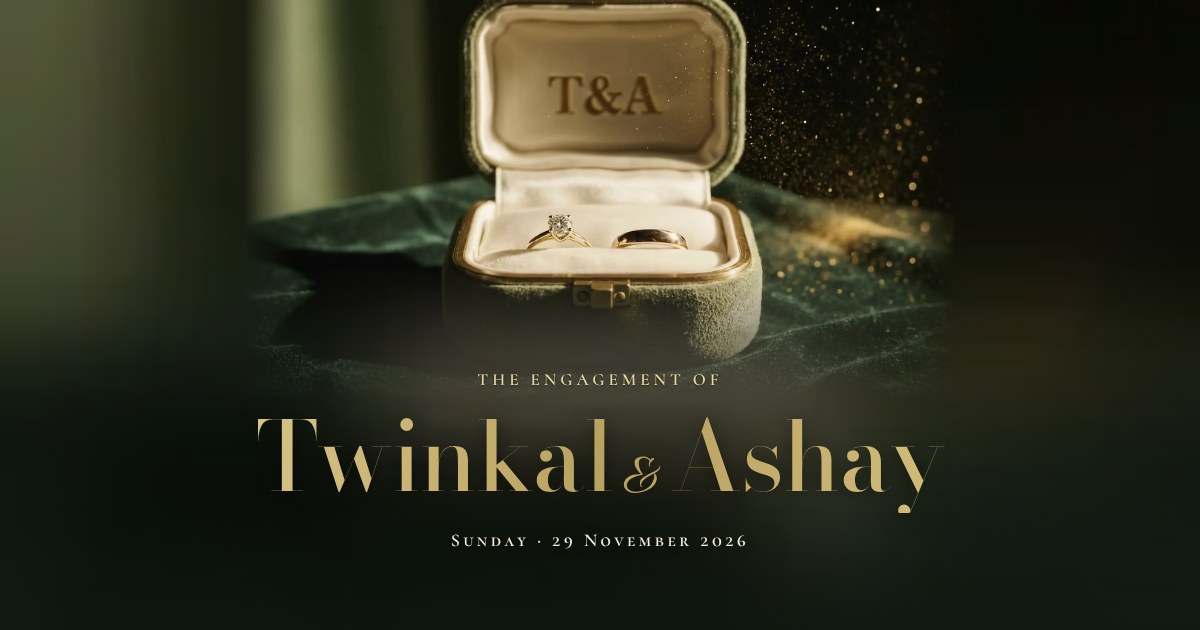
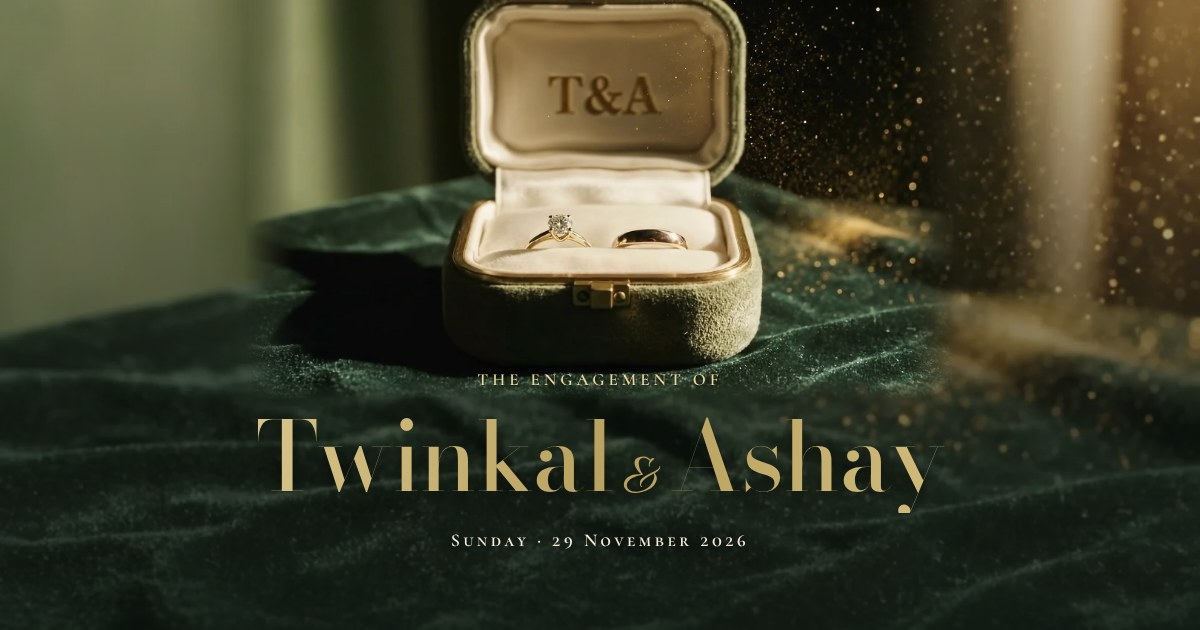
Velvet room backgrounds, never crop the box, drop the blessing shower
The film now sits in the room it was shot in: a matching velvet-and-dust
background plate (wide for laptops, an upscaled tall slice for phones) with
only a whisper of blur. Laptops fill the screen's height so the whole box is
always visible; fades are thin enough to stay clear of the lid and base. The
blessing shower is removed; a diya moment will take its place.

Claude-Session: https://claude.ai/code/session_01V483XrH9DwYK8njAU3piiR

diff --git a/index.html b/index.html
@@ -62,17 +62,14 @@
 
   /* ---------- ring box film ---------- */
   /* The film sits at the top and the words sit below it, so nothing ever covers the rings. Around it the whole
-     screen glows with a soft, dimmed blur of the film itself (its first frame, warming into its last once the
-     film ends), so the film melts into its own velvet and light rather than a flat wall.
+     screen is the same room: the velvet cloth, gold dust and window light the film was shot in (a matching
+     background plate), so the film sits in its own scene rather than on a flat wall.
      Wide screens get the 16:9 cut; phones and portrait tablets get the square cut (see the media query). */
-  .scene { --poster: url(assets/film-wide-poster.webp); --amb-start: url(assets/ambient-wide-start.webp); --amb-end: url(assets/ambient-wide-end.webp);
+  .scene { --poster: url(assets/film-wide-poster.webp); --bg: url(assets/bg-wide.webp);
     --top: 0px; --fh: min(56.25vw, calc(100svh - 230px)); --fw: calc(var(--fh) * 16 / 9);
     position: relative; height: 100svh; min-height: 560px; overflow: hidden; background: #111a12; }
-  .ambient, .ambient::before, .ambient::after { position: absolute; inset: 0; pointer-events: none; }
-  .ambient { background: var(--amb-start) center / cover no-repeat; }
-  /* the glow warms only once the film has finished, so nothing else repaints while it plays */
-  .ambient::before { content: ""; background: var(--amb-end) center / cover no-repeat; opacity: 0; transition: opacity 2.2s ease; will-change: opacity; }
-  .show-final .ambient::before { opacity: 1; }
+  .ambient, .ambient::after { position: absolute; inset: 0; pointer-events: none; }
+  .ambient { background: var(--bg) center bottom / cover no-repeat; }
   /* deepen the lower half so the gold words always read clearly */
   .ambient::after { content: ""; background: linear-gradient(to bottom, rgba(12, 19, 14, .05) 0, rgba(12, 19, 14, .35) calc(var(--top) + var(--fh) * .8), rgba(12, 19, 14, .78) 100%); }
   .scene .film, .scene .final {
@@ -82,20 +79,26 @@
   /* Softens the film's edges into the glow. It is a still layer laid over the film rather than a mask on the
      video, because masking a moving video costs frames; it fades in as the film settles into its frame. */
   .veil { position: absolute; inset: 0; pointer-events: none; opacity: 1; transition: opacity 1.5s ease;
-    background: linear-gradient(to bottom, rgba(12, 19, 14, .05) 0, rgba(12, 19, 14, .35) calc(var(--top) + var(--fh) * .8), rgba(12, 19, 14, .78) 100%), var(--amb-end) center / cover no-repeat;
-    -webkit-mask-image: linear-gradient(to bottom, transparent calc(var(--top) + var(--fh) * .66), #000 calc(var(--top) + var(--fh))),
+    background: linear-gradient(to bottom, rgba(12, 19, 14, .05) 0, rgba(12, 19, 14, .35) calc(var(--top) + var(--fh) * .8), rgba(12, 19, 14, .78) 100%), var(--bg) center bottom / cover no-repeat;
+    -webkit-mask-image: linear-gradient(to bottom, transparent calc(var(--top) + var(--fh) * .945), #000 calc(var(--top) + var(--fh))),
       linear-gradient(to right, #000 calc(50% - var(--fw) / 2), transparent calc(50% - var(--fw) * .43), transparent calc(50% + var(--fw) * .43), #000 calc(50% + var(--fw) / 2));
-            mask-image: linear-gradient(to bottom, transparent calc(var(--top) + var(--fh) * .66), #000 calc(var(--top) + var(--fh))),
+            mask-image: linear-gradient(to bottom, transparent calc(var(--top) + var(--fh) * .945), #000 calc(var(--top) + var(--fh))),
       linear-gradient(to right, #000 calc(50% - var(--fw) / 2), transparent calc(50% - var(--fw) * .43), transparent calc(50% + var(--fw) * .43), #000 calc(50% + var(--fw) / 2)); }
   .scene.full .veil { opacity: 0; }
+  .veil-full { position: absolute; inset: 0; pointer-events: none; opacity: 0; transition: opacity 1.5s ease;
+    background: linear-gradient(rgba(12, 19, 14, .25), rgba(12, 19, 14, .25)), var(--bg) center bottom / cover no-repeat;
+    -webkit-mask-image: linear-gradient(to right, #000 calc(50% - var(--full-w, 100vw) / 2), transparent calc(50% - var(--full-w, 100vw) * .44), transparent calc(50% + var(--full-w, 100vw) * .44), #000 calc(50% + var(--full-w, 100vw) / 2));
+            mask-image: linear-gradient(to right, #000 calc(50% - var(--full-w, 100vw) / 2), transparent calc(50% - var(--full-w, 100vw) * .44), transparent calc(50% + var(--full-w, 100vw) * .44), #000 calc(50% + var(--full-w, 100vw) / 2)); }
+  .scene.full .veil-full { opacity: 1; transition: none; }
   .scene .film { background: var(--poster) center / cover no-repeat; }
-  /* wide screens: the film fills the screen while it plays (scale and offset set by fitFull),
+  /* wide screens: the film fills the screen's height while it plays (scale and offset set by fitFull),
      then glides back into its frame above the names once it ends */
   .scene .final { transition: opacity .8s ease; }
   /* only the settling move animates; the film starts full-screen without any zoom on load */
   .scene.settle .film, .scene.settle .final { transition: transform 1.5s cubic-bezier(.6, 0, .25, 1), opacity .8s ease; }
   .scene.full .film, .scene.full .final { transform: translate(-50%, var(--full-y, 0px)) scale(var(--full-s, 1)); }
   @media (min-aspect-ratio: 801/1000) {
+    .scene .scroll-cue { display: none; }   /* the hint says it; the icon would sit under the RSVP bar */
     .scene.full .scene-ui { top: calc(env(safe-area-inset-top) + 8svh); bottom: auto; text-shadow: 0 1px 12px rgba(0, 0, 0, .6); }
   }
   .scene .final { opacity: 0; pointer-events: none; }
@@ -115,23 +118,21 @@
   .named .post { opacity: 1; transform: none; pointer-events: auto; transition-duration: 1.4s; }
 
   @media (max-aspect-ratio: 4/5) {
-    .scene { --poster: url(assets/film-square-poster.webp); --amb-start: url(assets/ambient-square-start.webp); --amb-end: url(assets/ambient-square-end.webp);
+    .scene { --poster: url(assets/film-square-poster.webp); --bg: url(assets/bg-tall.webp);
       --top: calc(env(safe-area-inset-top) + 40px);
       --fh: min(100vw, 60svh); --fw: var(--fh); }
-    .veil { display: none; }
-    /* the glide to the centre fits inside the pause after the tap */
-    .scene.settle .film, .scene.settle .final { transition: transform 1.1s cubic-bezier(.6, 0, .25, 1), opacity .8s ease; }
+    .veil, .veil-full { display: none; }
     /* phones: the square spans the width, so only its top and bottom melt away */
     .scene .film, .scene .final {
-      -webkit-mask-image: linear-gradient(to bottom, transparent 0, #000 13%, #000 80%, transparent 100%);
-              mask-image: linear-gradient(to bottom, transparent 0, #000 13%, #000 80%, transparent 100%);
+      -webkit-mask-image: linear-gradient(to bottom, transparent 0, #000 3%, #000 95%, transparent 100%);
+              mask-image: linear-gradient(to bottom, transparent 0, #000 3%, #000 95%, transparent 100%);
     }
   }
   /* portrait tablets: the square no longer spans the width, so melt its sides too */
   @media (max-aspect-ratio: 4/5) and (min-aspect-ratio: 3/5) {
     .scene .film, .scene .final {
-      -webkit-mask-image: linear-gradient(to bottom, transparent 0, #000 13%, #000 80%, transparent 100%), linear-gradient(to right, transparent 0, #000 9%, #000 91%, transparent 100%);
-              mask-image: linear-gradient(to bottom, transparent 0, #000 13%, #000 80%, transparent 100%), linear-gradient(to right, transparent 0, #000 9%, #000 91%, transparent 100%);
+      -webkit-mask-image: linear-gradient(to bottom, transparent 0, #000 3%, #000 95%, transparent 100%), linear-gradient(to right, transparent 0, #000 9%, #000 91%, transparent 100%);
+              mask-image: linear-gradient(to bottom, transparent 0, #000 3%, #000 95%, transparent 100%), linear-gradient(to right, transparent 0, #000 9%, #000 91%, transparent 100%);
     }
   }
   .kicker { font-family: var(--caps); font-weight: 600; letter-spacing: 4px; font-size: clamp(14px, 3.9vw, 17px); color: #ecd9a0; margin: 0 0 16px; text-transform: uppercase;
@@ -248,18 +249,6 @@
   .btn-wa { background: linear-gradient(135deg, #34503f, #1b2c23); color: #f3e6c4; box-shadow: 0 10px 24px -10px rgba(20, 40, 30, .75), inset 0 0 0 1px rgba(220, 194, 131, .45); }
   .btn[hidden] { display: none; }
 
-  /* blessings */
-  .bless-btn { position: relative; width: 156px; height: 156px; border-radius: 50%; border: 0; cursor: pointer; margin: 30px auto 0; display: grid; place-items: center;
-    background: radial-gradient(circle at 35% 30%, #fff7e6, #ecd3a0 50%, #c4a062); color: #43361a;
-    box-shadow: 0 20px 40px -18px rgba(140, 105, 40, .65), inset 0 2px 0 rgba(255, 255, 255, .75), inset 0 0 0 1px rgba(140, 110, 50, .35);
-    font-family: var(--caps); font-weight: 600; letter-spacing: 2px; font-size: 14px; -webkit-user-select: none; user-select: none; -webkit-touch-callout: none; touch-action: none; transition: transform .25s; }
-  :lang(gu) .bless-btn { letter-spacing: .3px; font-size: 16px; }
-  .bless-btn.holding { transform: scale(.94); }
-  .bless-btn svg { width: 40px; height: 40px; margin-bottom: 6px; }
-  .bless-btn::before { content: ""; position: absolute; inset: -10px; border-radius: 50%; border: 1px dashed rgba(196, 160, 98, .65); animation: spin 18s linear infinite; }
-  @keyframes spin { to { transform: rotate(360deg); } }
-  .bless-count { margin-top: 18px; font-style: italic; color: var(--ink-soft); min-height: 1.4em; }
-  #petals { position: fixed; inset: 0; width: 100%; height: 100%; pointer-events: none; z-index: 25; }
 
   /* rsvp */
   .rsvp-form { display: grid; gap: 12px; max-width: 420px; margin: 26px auto 0; text-align: left; }
@@ -328,6 +317,7 @@
          aria-label="A velvet ring box opens to show two engagement rings and a gold T &amp; A on the lid"></video>
   <img class="final" alt="">
   <div class="veil" aria-hidden="true"></div>
+  <div class="veil-full" aria-hidden="true"></div>
   <script>
   // phones get the square cut of the film, wider screens the full 16:9 one; chosen before anything else loads
   (() => {
@@ -436,18 +426,7 @@
       </div>
     </section>
 
-    <!-- ================= 6. BLESSINGS ================= -->
-    <section class="block">
-      <p class="eyebrow rv" data-i18n="blessEyebrow">From your heart</p>
-      <h2 class="rv" data-i18n="blessTitle">Shower your blessings</h2>
-      <p class="lead rv" data-i18n="blessText">Press and hold the flower to shower petals on Twinkal &amp; Ashay.</p>
-      <button class="bless-btn rv" id="blessBtn">
-        <span><svg viewBox="0 0 48 48" fill="none" stroke="currentColor" stroke-width="1.6" aria-hidden="true"><path d="M24 40c0-8 0-14 0-20"/><path d="M24 20c-6-1-9-5-9-10 5 0 8 3 9 6 1-3 4-6 9-6 0 5-3 9-9 10z" fill="currentColor" fill-opacity=".18"/><path d="M24 30c-4 0-8-2-9-6 4-1 7 1 9 3M24 32c4 0 8-2 9-6-4-1-7 1-9 3"/></svg><br><span data-i18n="blessBtn">HOLD TO BLESS</span></span>
-      </button>
-      <p class="bless-count" id="blessCount" aria-live="polite"></p>
-    </section>
-
-    <!-- ================= 7. RSVP ================= -->
+    <!-- ================= 6. RSVP ================= -->
     <section class="block" id="rsvp">
       <p class="eyebrow rv" data-i18n="rsvpEyebrow">Kindly reply</p>
       <h2 class="rv" data-i18n="rsvpTitle">Will you join us?</h2>
@@ -479,7 +458,6 @@
   <button class="qb" id="qbLoc"><svg viewBox="0 0 24 24" fill="none" stroke="currentColor" stroke-width="1.7"><path d="M12 21s-7-6.2-7-11.5A7 7 0 0 1 19 9.5C19 14.8 12 21 12 21z"/><circle cx="12" cy="9.5" r="2.5"/></svg><span data-i18n="barLoc">LOCATION</span></button>
 </nav>
 
-<canvas id="petals" aria-hidden="true"></canvas>
 <audio id="music" loop preload="none"></audio>
 
 <!-- ================= page logic (no 3D) ================= -->
@@ -516,9 +494,6 @@ const I18N = {
     detailsEyebrow: "JOIN US", detailsTitle: "The celebration", when: "DATE", time: "TIME", where: "VENUE",
     dateLongPlain: "Sunday, 29 November 2026", tba: "To be shared soon",
     calendar: "ADD TO CALENDAR", directions: "DIRECTIONS",
-    blessEyebrow: "FROM YOUR HEART", blessTitle: "Shower your blessings",
-    blessText: "Press and hold the flower to shower petals on Twinkal & Ashay.", blessBtn: "HOLD TO BLESS",
-    blessCount: "{n} blessings sent with love", blessOne: "1 blessing sent with love",
     rsvpEyebrow: "KINDLY REPLY", rsvpTitle: "Will you join us?", nameLabel: "YOUR NAME", namePh: "Your name",
     guestsLabel: "NUMBER OF GUESTS", yes: "YES, WE'LL BE THERE", no: "SORRY, CAN'T MAKE IT",
     rsvpYes: "Namaste! {name} will joyfully attend Twinkal & Ashay's engagement on Sunday, 29 November 2026. Guests: {n} 🌸",
@@ -544,9 +519,6 @@ const I18N = {
     detailsEyebrow: "પધારજો", detailsTitle: "શુભ પ્રસંગ", when: "તારીખ", time: "સમય", where: "સ્થળ",
     dateLongPlain: "રવિવાર, ૨૯ નવેમ્બર ૨૦૨૬", tba: "ટૂંક સમયમાં જણાવીશું",
     calendar: "કેલેન્ડરમાં ઉમેરો", directions: "રસ્તો જુઓ",
-    blessEyebrow: "દિલથી", blessTitle: "આશીર્વાદ વરસાવો",
-    blessText: "ટ્વિંકલ અને આશય પર ફૂલ વરસાવવા ફૂલ દબાવી રાખો.", blessBtn: "દબાવી રાખો",
-    blessCount: "{n} આશીર્વાદ પ્રેમથી મોકલ્યા", blessOne: "૧ આશીર્વાદ પ્રેમથી મોકલ્યો",
     rsvpEyebrow: "જવાબ આપશો", rsvpTitle: "આપ પધારશો ને?", nameLabel: "આપનું નામ", namePh: "આપનું નામ",
     guestsLabel: "મહેમાનોની સંખ્યા", yes: "હા, જરૂર આવીશું", no: "માફ કરશો, નહીં આવી શકીએ",
     rsvpYes: "નમસ્તે! {name} ટ્વિંકલ અને આશયની સગાઈમાં (રવિવાર, ૨૯ નવેમ્બર ૨૦૨૬) જરૂર આવશે. મહેમાનો: {n} 🌸",
@@ -598,7 +570,6 @@ function applyLang() {
   const bp = document.getElementById("brideParents"), gp = document.getElementById("groomParents");
   if (CONFIG.brideParents) { bp.hidden = false; bp.textContent = t("daughterOf", { x: CONFIG.brideParents }); }
   if (CONFIG.groomParents) { gp.hidden = false; gp.textContent = t("sonOf", { x: CONFIG.groomParents }); }
-  renderBlessCount();
   tick(true);
   document.dispatchEvent(new CustomEvent("langchange", { detail: lang }));
 }
@@ -687,7 +658,7 @@ addEventListener("scroll", () => { if (document.body.classList.contains("locked"
 const html = document.documentElement;
 const film = document.getElementById("film");
 const finalImg = document.querySelector(".scene .final");
-const HOLD = 1200;   // ms of stillness after the tap, before the lid starts to move (covers the phone glide)
+const HOLD = 1000;   // ms of stillness after the tap, before the lid starts to move
 let opened = false, started = false, filmFailed = false;
 film.addEventListener("error", () => { filmFailed = true; });
 [...film.querySelectorAll("source")].pop().addEventListener("error", () => { filmFailed = true; });
@@ -711,14 +682,16 @@ function begin() {
   document.dispatchEvent(new Event("openbox"));
 }
 
-// The film has the screen to itself while it plays: full-screen on wide screens (from the start), centred on
-// phones (glides there on the tap). When it ends it zooms out into its frame and the names rise below it.
+// The film has the screen to itself while it plays: full-screen on wide screens (from the start), across the
+// top on phones. When it ends it zooms out into its frame (wide) and the names rise below it.
 // Every move happens while the film is paused, so none of them costs a frame of playback.
 const sceneEl = document.getElementById("scene");
 const WIDE = film.dataset.cut === "wide", STILL = new URLSearchParams(location.search).has("still");
 function fitFull() {
   const w = film.offsetWidth, h = film.offsetHeight, H = sceneEl.clientHeight;
-  sceneEl.style.setProperty("--full-s", (WIDE ? Math.max(innerWidth / w, H / h) : 1).toFixed(4));
+  const sc = WIDE ? H / h : 1;   // fill the height, never crop it: the box nearly fills the frame at the end
+  sceneEl.style.setProperty("--full-s", sc.toFixed(4));
+  sceneEl.style.setProperty("--full-w", (w * sc).toFixed(1) + "px");
   sceneEl.style.setProperty("--full-y", (H / 2 - film.offsetTop - h / 2).toFixed(1) + "px");
 }
 fitFull(); addEventListener("resize", fitFull);
@@ -736,7 +709,6 @@ function openBox() {
   sceneEl.classList.add("opened");
   setMusic(true);
   if (filmFailed) return fallBack();
-  if (!WIDE) sceneEl.classList.add("settle", "full");     // phones: the box glides to the centre
   // start playback inside the tap (so every phone allows it), hold on the first frame, then let it run
   const go = () => { const q = film.play(); if (q && q.catch) q.catch(fallBack); };
   const p = film.play();
@@ -779,58 +751,6 @@ if (new URLSearchParams(location.search).has("still")) {
 /* ---------- reveal on scroll ---------- */
 const io = new IntersectionObserver(es => es.forEach(e => { if (e.isIntersecting) { e.target.classList.add("in"); io.unobserve(e.target); } }), { threshold: .15 });
 document.querySelectorAll(".rv").forEach(el => io.observe(el));
-
-/* ---------- blessings: hold to shower petals ---------- */
-let blessed = 0;
-try { blessed = +localStorage.getItem("ta-bless") || 0; } catch (e) {}
-function renderBlessCount() {
-  document.getElementById("blessCount").textContent = blessed ? (blessed === 1 ? t("blessOne") : t("blessCount", { n: num(blessed) })) : "";
-}
-(() => {
-  const cv = document.getElementById("petals"), cx = cv.getContext("2d");
-  const COLORS = [["#ffd9a8", "#f39a4d"], ["#ffd0c0", "#ea7d5d"], ["#fff4e2", "#e9c99a"], ["#ffe08a", "#f0a92e"], ["#f9c4cf", "#e0708a"]];
-  const reduce = matchMedia("(prefers-reduced-motion: reduce)").matches;
-  let petals = [], running = false, holding = false, dpr = 1, W = 0, H = 0, holdTimer;
-  function size() { dpr = Math.min(devicePixelRatio || 1, 2); W = innerWidth; H = innerHeight; cv.width = W * dpr; cv.height = H * dpr; cx.setTransform(dpr, 0, 0, dpr, 0, 0); }
-  size(); addEventListener("resize", size);
-  function spawn(n) {
-    for (let i = 0; i < n; i++) {
-      const c = COLORS[(Math.random() * COLORS.length) | 0];
-      petals.push({ x: Math.random() * W, y: -20 - Math.random() * 60, r: 7 + Math.random() * 8, vy: 1.4 + Math.random() * 2.2, vx: (Math.random() - .5) * .8,
-        sw: Math.random() * 6.28, rot: Math.random() * 6.28, vr: (Math.random() - .5) * .08, flip: Math.random() * 6.28, c });
-    }
-    if (petals.length > 260) petals.splice(0, petals.length - 260);
-    if (!running) { running = true; requestAnimationFrame(frame); }
-  }
-  function frame() {
-    cx.clearRect(0, 0, W, H);
-    if (holding) spawn(3);
-    for (const p of petals) {
-      p.y += p.vy; p.sw += .03; p.rot += p.vr; p.flip += .06;
-      const x = p.x + Math.sin(p.sw) * 22 + p.vx * p.y * .05;
-      cx.save(); cx.translate(x, p.y); cx.rotate(p.rot); cx.scale(1, Math.abs(Math.cos(p.flip)) * .7 + .3);
-      const g = cx.createRadialGradient(-p.r * .3, -p.r * .3, 1, 0, 0, p.r);
-      g.addColorStop(0, p.c[0]); g.addColorStop(1, p.c[1]);
-      cx.fillStyle = g;
-      cx.beginPath(); cx.moveTo(0, -p.r); cx.bezierCurveTo(p.r, -p.r * .6, p.r * .8, p.r * .7, 0, p.r); cx.bezierCurveTo(-p.r * .8, p.r * .7, -p.r, -p.r * .6, 0, -p.r); cx.fill();
-      cx.restore();
-    }
-    petals = petals.filter(p => p.y < H + 30);
-    if (petals.length || holding) requestAnimationFrame(frame); else { running = false; cx.clearRect(0, 0, W, H); }
-  }
-  const btn = document.getElementById("blessBtn");
-  function start(e) {
-    e.preventDefault(); holding = !reduce; btn.classList.add("holding");
-    spawn(reduce ? 0 : 18); count();
-    holdTimer = setInterval(count, 450);
-    if (navigator.vibrate) navigator.vibrate(12);
-  }
-  function count() { blessed++; try { localStorage.setItem("ta-bless", blessed); } catch (e) {} renderBlessCount(); }
-  function stop() { holding = false; btn.classList.remove("holding"); clearInterval(holdTimer); }
-  btn.addEventListener("pointerdown", start);
-  ["pointerup", "pointerleave", "pointercancel"].forEach(ev => btn.addEventListener(ev, stop));
-  btn.addEventListener("contextmenu", e => e.preventDefault());
-})();
 
 applyLang();
 tick();
